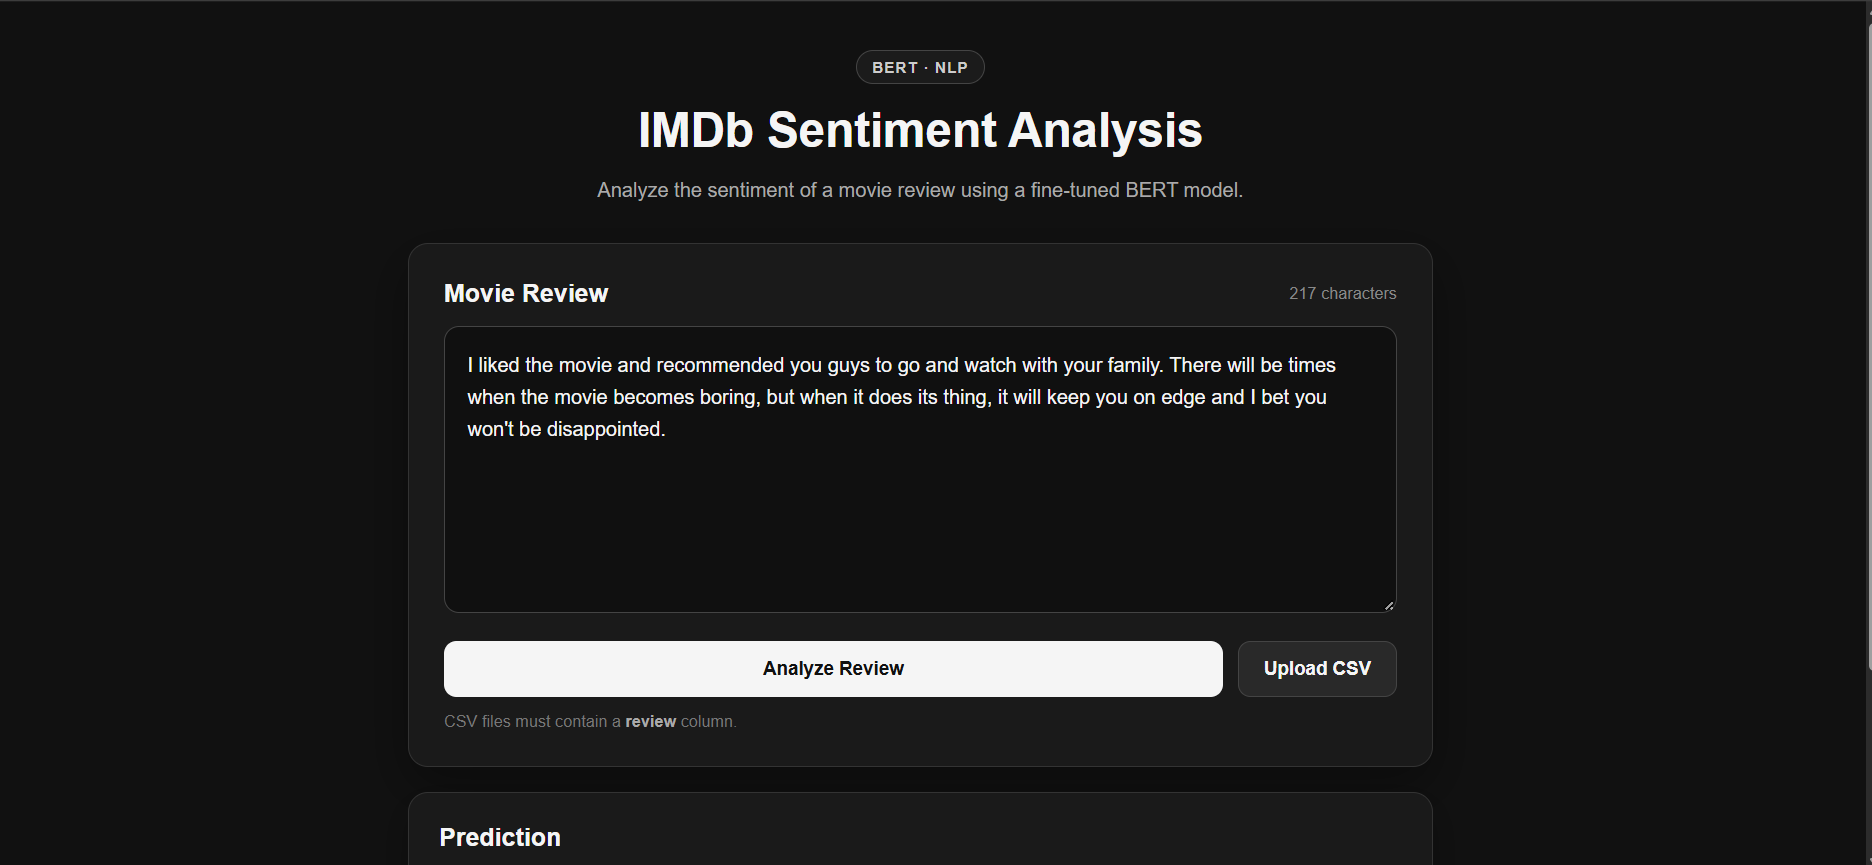
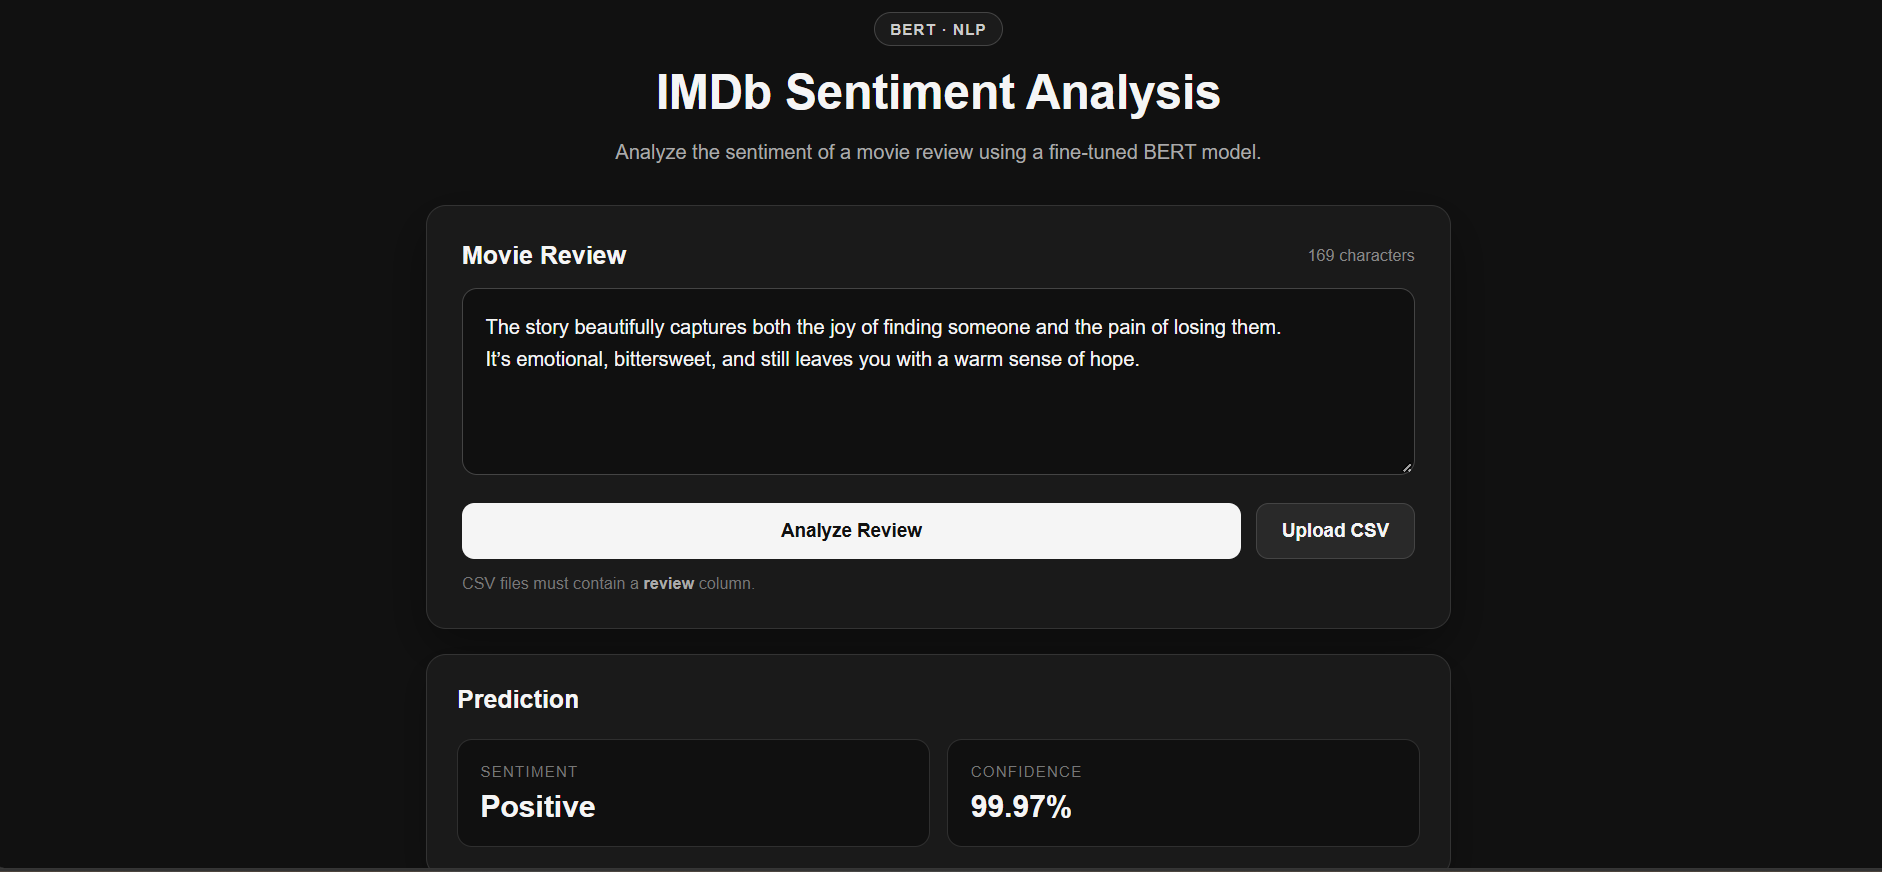
Simplify project demo screenshots

diff --git a/README.md b/README.md
@@ -13,11 +13,7 @@ The application provides an interactive web interface for sentiment prediction, 
 
 ![IMDb Sentiment Analysis Application](assets/app-screenshot.png)
 
-The application allows users to enter a movie review and submit it for sentiment analysis.
-
-![IMDb Sentiment Analysis Prediction](assets/app-working.png)
-
-The fine-tuned BERT model returns the predicted sentiment along with its confidence score.
+The application allows users to enter a movie review and receive a sentiment prediction with its confidence score.
 
 ### Swagger API Documentation
 
